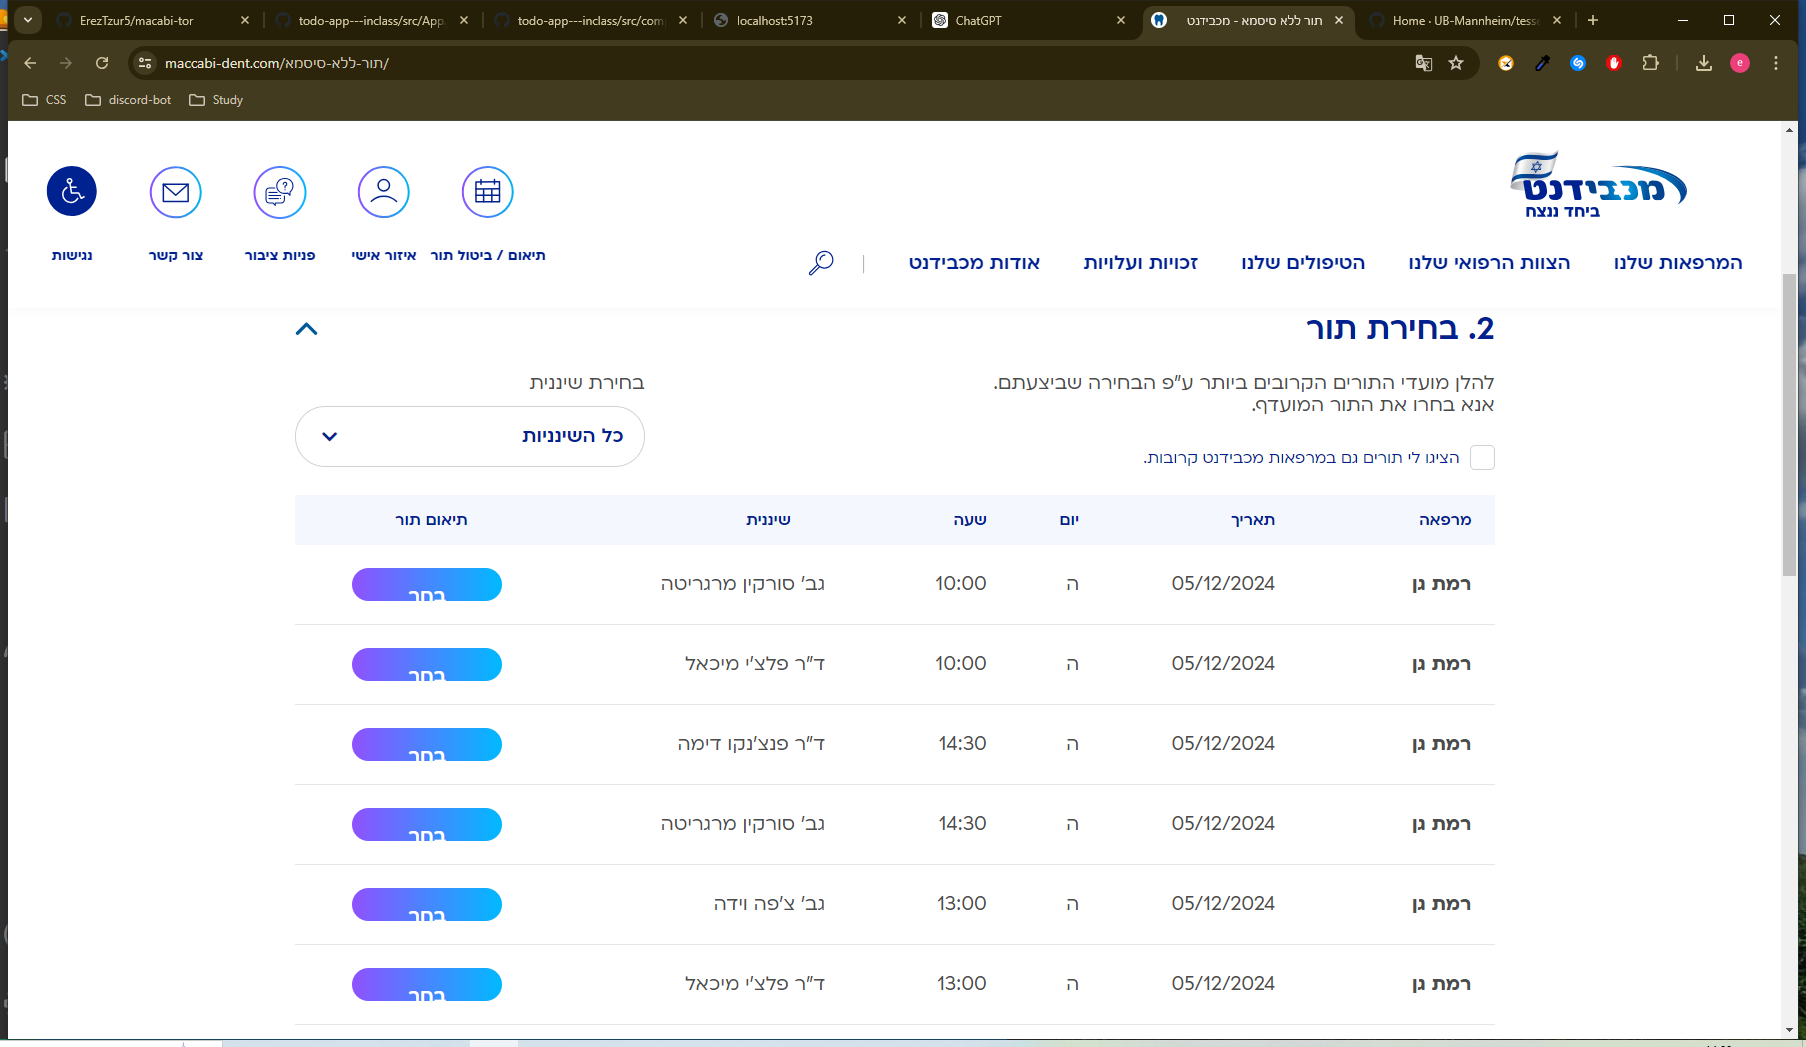
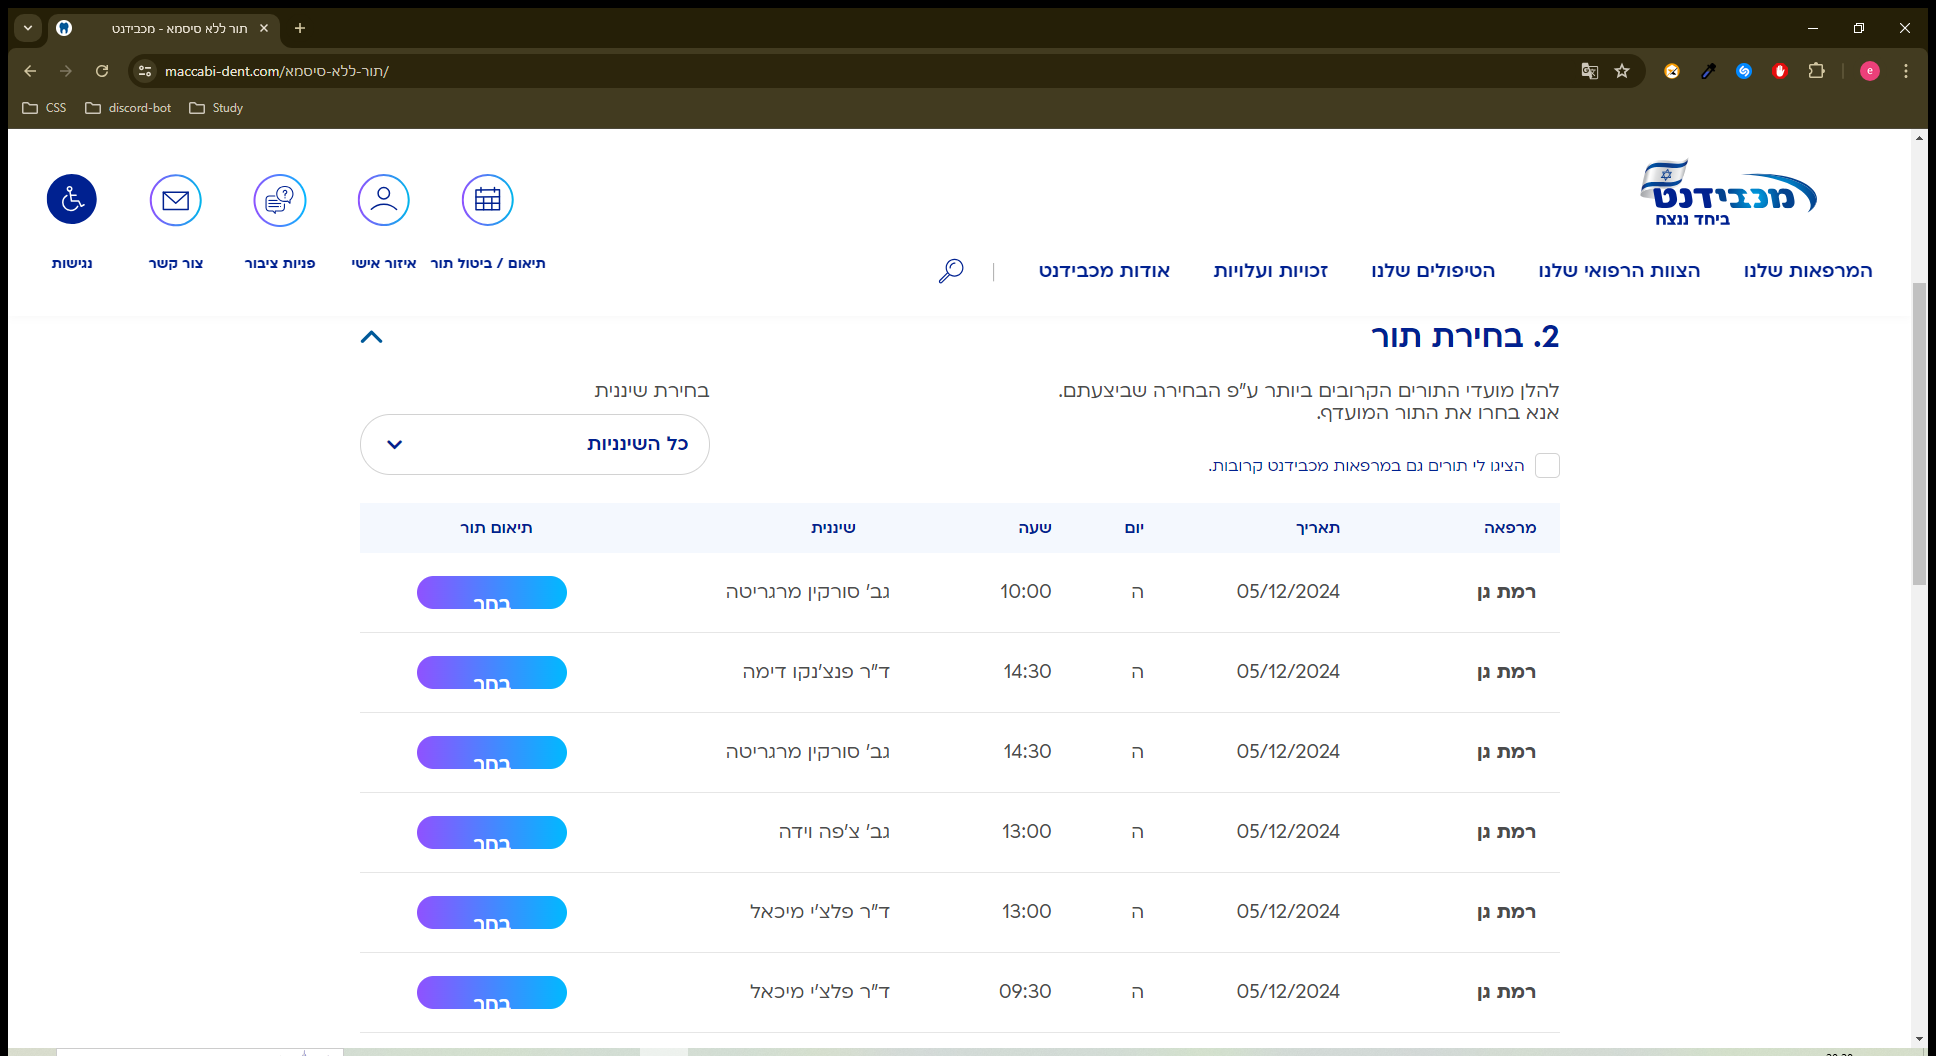
modified code a bit

diff --git a/tor.py b/tor.py
@@ -54,6 +54,7 @@ def perform_task_sequence(bday,city,id_number,date_to_check):
     Perform a sequence of tasks to get the required information.
     """
     try:
+        time.sleep(2)
         click_on_element(find_image("./assets/type_of_tor.PNG"))
         click_on_element(find_image("./assets/tor_shinanit.PNG"))
         click_on_element(find_image("./assets/bday.PNG"))
@@ -88,7 +89,7 @@ def perform_task_sequence(bday,city,id_number,date_to_check):
             time.sleep(1)
             
             click_on_element(find_image("./assets/hamsheh.PNG"))
-            time.sleep(4)
+            time.sleep(6)
             
             click_on_element(find_image("./assets/read_and_allow.PNG", confidence=0.7))
             time.sleep(1)
@@ -109,5 +110,5 @@ if __name__ == "__main__":
     bday = "27071999"
     city = "רמת גן"
     id_number = "207888355"
-    date_to_check = '15/06/2024'
+    date_to_check = '05/12/2024'
     perform_task_sequence(bday,city,id_number,date_to_check)
